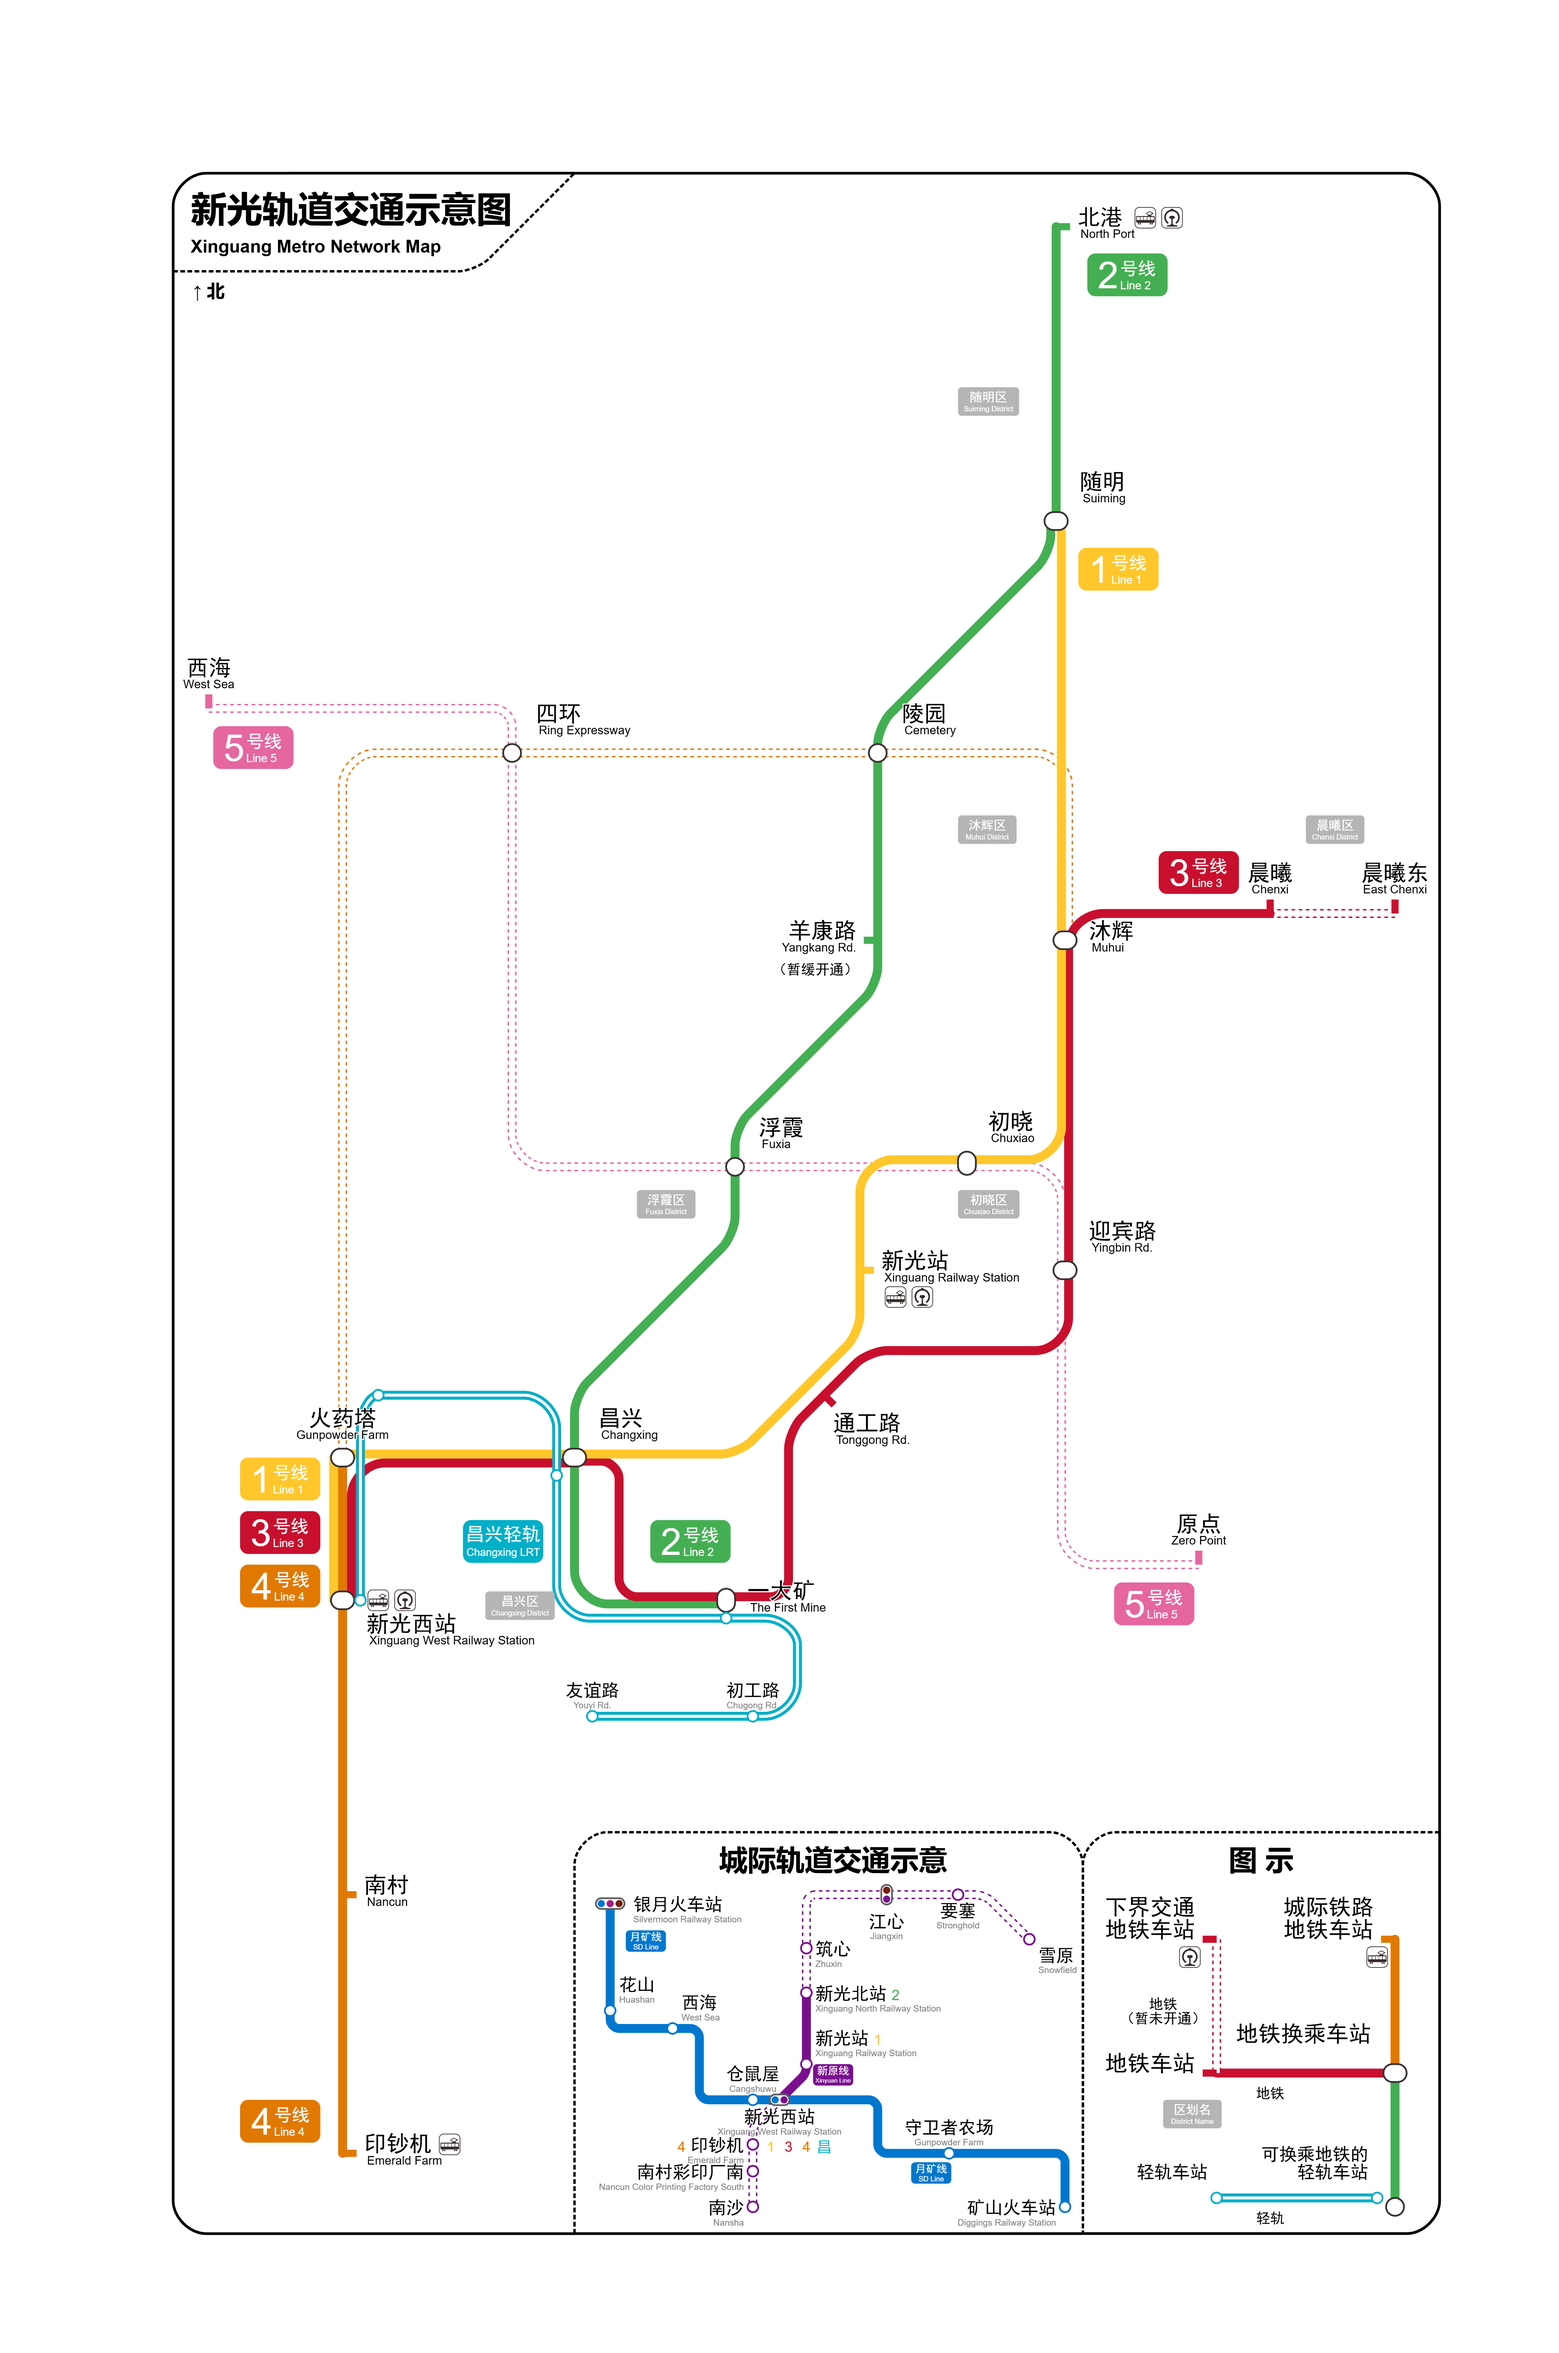
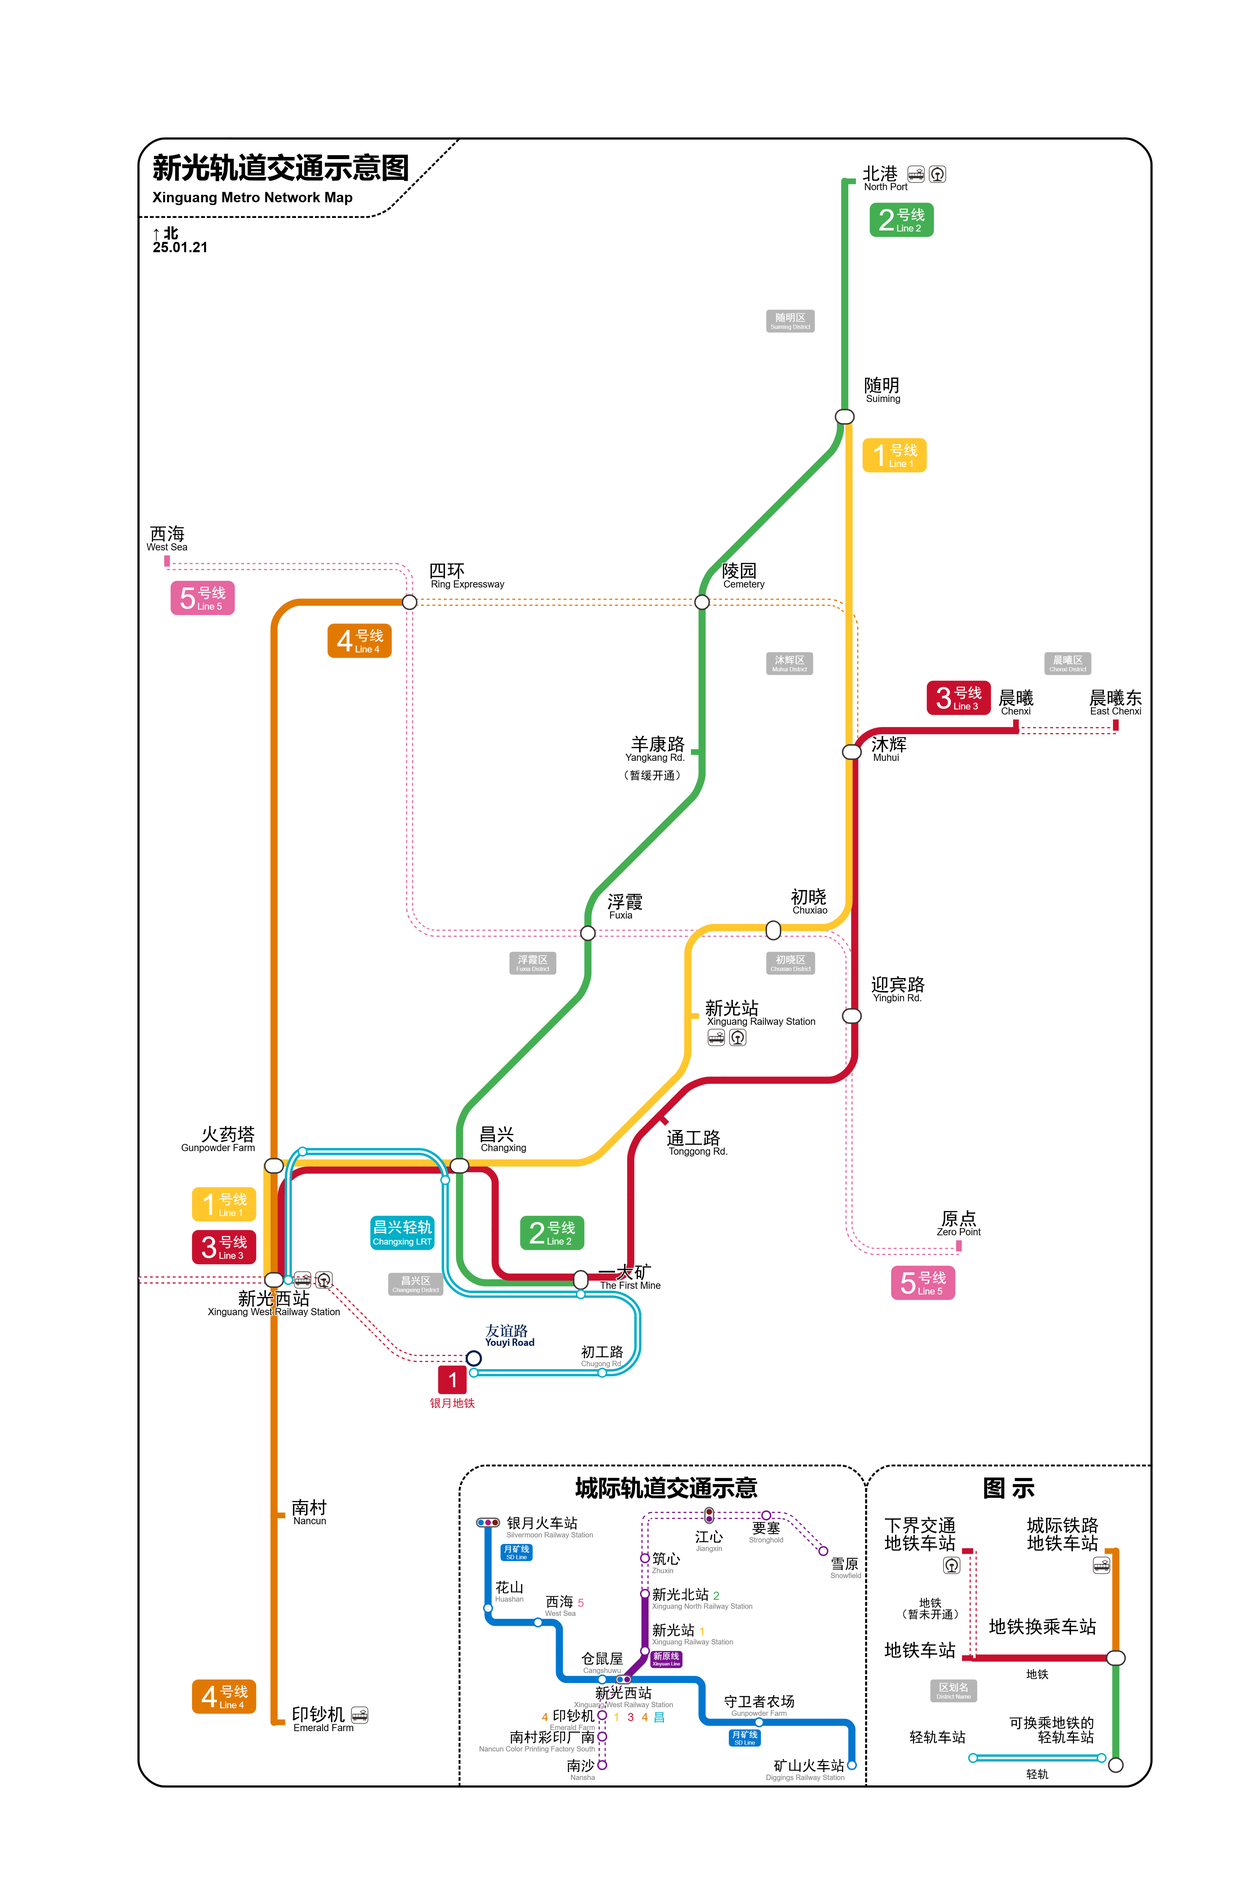
更新服务器铁路信息、未来计划、蛙明灯农场条目

diff --git a/docs/SurvivalIII/industries/froglight_farm.md b/docs/SurvivalIII/industries/froglight_farm.md
@@ -1,34 +1,43 @@
 # 蛙明灯农场
 
-## 概述
+蛙明灯农场是用于产出蛙明灯的机器，是生存服目前唯一的蛙明灯来源。该机器基于一个拥有岩浆怪刷怪笼的堡垒遗迹而建设。
 
-- 蛙明灯农场位于下界交通蛙明灯农场站下方，狭义上仅指用于产生和收集蛙明灯的玻璃墙房间，广义上指玻璃墙房间和该房间外的下界砖块墙房间，和该房间内一铁门通向的观光台。如无说明，在本页面中均指广义含义。
-- 它内部有三只青蛙、一个岩浆怪刷怪笼、十六个细雪、玻璃墙和收集装置。刷怪笼上方开口，通向猪灵堡垒。可通过蛙明灯农场站前往猪灵堡垒。
-- 它是生存服目前的蛙明灯唯一来源，也是下界第三大机器和第二大生电。
-- 它由 @Ar 和 @PumpkinJui 建设和维护。
+## 基础信息
+
+- **地点** 蛙明灯农场（下界交通站点）
+- **维修者** 南瓜汁、Ar
+- **主要产物** 赭黄蛙明灯、青翠蛙明灯、珠光蛙明灯、岩浆膏
+- **到达方式** 下界交通橙线，前往下界要塞站并根据导引到达
+- **代际** 第一代
 
 ## 使用方法
 
-- 从脚手架通道走出后，沿铁轨旁的脚手架向下。
-- 挂机。
-- 检查收获。把它们带到[矿山区域](../diggings.md)进行存放。
+在挂机区直接挂机即可。
 
-## 实现原理
-
-> 摘自 Wiki 相关词条。包括「蛙明灯」等。
-
-## 维护
+### 机器维护
 
 蛙明灯农场最常见的维护项目包括：
 
 - 转移收集装置内临时存放的蛙明灯至蛙明灯仓库。
-- 检查细雪是否莫名消失，如果丢失则补齐。
+- 检查细雪是否莫名消失，如果丢失则补齐。这是当前的一个未知问题——细雪会消失所导致的。*未知出现原因，未知复现步骤，未知修复方式，目前毫无办法。*
 
 其他不太常见的维护项目包括：
 
 - 修复任何被破坏的建筑结构和红石结构。
 
-## 已知问题和 TODO
+## 效率检测
 
-- [ ]  未知问题：细雪会消失。*未知出现原因，未知复现步骤，未知修复方式，目前毫无办法。*
-- [x]  下界交通级防刷怪设计
+于 2025 年 1 月 21 日进行了一次时长为 **8 小时 25 分钟（8.41 小时）** 的效率测量。以下为总产出和该机器的效率统计。
+
+| 产物 | 总产出（个） | 效率（个/h） |
+| --- | --- | --- |
+| 赭黄蛙明灯 | 2585 | 307.4 |
+| 青翠蛙明灯 | 2632 | 313.0 |
+| 珠光蛙明灯 | 2656 | 315.8 |
+| 岩浆膏 | 1521 | 186.9 |
+
+平均下来，每种蛙明灯的平均效率为 312.05 个/h。
+
+## 你知道吗
+
+> 如果你有一些关于此机器的不为人知的趣事想要分享，欢迎分享在这里！

diff --git a/docs/SurvivalIII/railway_transit/history.md b/docs/SurvivalIII/railway_transit/history.md
@@ -59,12 +59,13 @@
 | 24.10.02 | 城际铁路 | 更名 北矿线 → 月矿线、北岩线 → 月岩线 | — | — |
 | 24.10.18 | 月原线 | 银月 - 沙河（银月北线路所） 开通运营 | +161 | 13164 |
 | 24.10.18 | 银月 5 号线 | 与月原线直通运营 | +55 | 13219 |
-| 24.10.24 | 新光地铁 | 昌兴站启用新站，老站废弃 | +130 | 13349 |
-| 24.11.09 | 银月 6 号线 | 采石场 - 银月南站 开通运营 | +288 | 13637 |
-| 24.11.11 | 2 号线 | 随明 - 北港 开通运营 | +246 | 13883 |
-| 24.11.13 | 新原线 | 新光 - 新光北 开通运营 | +689 | 14572 |
+| 24.10.24 | 新光地铁 | 昌兴站启用新站，老站废弃 | +149 | 13368 |
+| 24.11.09 | 银月 6 号线 | 采石场 - 银月南站 开通运营 | +288 | 13656 |
+| 24.11.11 | 2 号线 | 随明 - 北港 开通运营 | +246 | 13902 |
+| 24.11.13 | 新原线 | 新光 - 新光北 开通运营 | +689 | 14591 |
 | 24.11.24 | 1 号线 | 为配合 3 号线通工路站施工，1 号线改线并使用新式隧道 | — | — |
-| 24.11.24 | 3 号线 | 沐辉 - 通工路 开通运营 | +366 | 14938 |
-| 24.12.13 | 3 号线 | 通工路 - 昌兴 开通运营 | +281 | 15219 |
+| 24.11.24 | 3 号线 | 沐辉 - 通工路 开通运营 | +366 | 14957 |
+| 24.12.13 | 3 号线 | 通工路 - 昌兴 开通运营 | +281 | 15238 |
 | 24.12.20 | 新光地铁 | 火药塔站封站改造 | — | — |
-| 24.12.26 | 新光地铁 | 火药塔站重新开放 | — | — |
+| 24.12.26 | 新光地铁 | 火药塔站重新开放，1 号线、4 号线改线 | -104 | 15134 |
+| 25.01.21 | 4 号线 | 火药塔 - 四环 开通运营 | +489 | 15623 |

diff --git a/docs/SurvivalIII/railway_transit/xinguang.md b/docs/SurvivalIII/railway_transit/xinguang.md
@@ -13,11 +13,11 @@
 
 新光地铁整体呈现出高度的南北走向趋势，这是因为新光是一座多岛屿的城市，整体成「J」字形分布，因此新光地铁也显现出这一特点。
 
-截至 2024 年 12 月 27 日，新光地铁已经成为一条拥有 5 条线路，18 个站点，覆盖几乎新光全域的庞大地铁系统（不计月矿线和新原线）。并预计在未来带动四环、西海、原点等区域的发展，发展成为 23 个站点的地铁系统。
+截至 2025 年 1 月 21 日，新光地铁已经成为一条拥有 5 条线路，19 个站点，覆盖几乎新光全域的庞大地铁系统（不计月矿线和新原线）。并预计在未来带动四环、西海、原点等区域的发展，发展成为 23 个站点的地铁系统。
 
 ## 新光轨道交通示意图
 
-![新光地铁规划图 24/12/27](../../../assets/SurvivalIII/xinguang_metro.png)
+![新光地铁规划图 25/01/21](../../../assets/SurvivalIII/xinguang_metro.png)
 
 ## 线路简介
 

diff --git a/docs/SurvivalIII/railway_transit/mileage.md b/docs/SurvivalIII/railway_transit/mileage.md
@@ -14,9 +14,9 @@
 | 沐辉 - 初晓 | 158 |
 | 初晓 - 新光站 | 110 |
 | 新光站 - 昌兴 | 260 |
-| 昌兴 - 火药塔 | 175 |
-| 火药塔 - 新光西站 | 158 |
-| **总计** | **1013** |
+| 昌兴 - 火药塔 | 117 |
+| 火药塔 - 新光西站 | 92 |
+| **总计** | **889** |
 
 ### 2 号线
 
@@ -46,10 +46,11 @@
 
 | 站名 | 站间距（m） |
 | :---: | :---: |
-| 火药塔 - 新光西站 | 120 |
+| 四环 - 火药塔 | 489 |
+| 火药塔 - 新光西站 | 140 |
 | 新光西站 - 南村 | 391 |
 | 南村 - 印钞厂 | 339 |
-| **总计** | **850** |
+| **总计** | **1359** |
 
 ### 昌兴轻轨
 
@@ -177,10 +178,10 @@
 
 | 线路 | 里程（m） |
 | :---: | :---: |
-| 新光地铁 | 5026 |
+| 新光地铁 | 5430 |
 | 银月地铁 | 2876 |
 | 城际铁路 | 7317 |
-| **总计** | **15219** |
+| **总计** | **15623** |
 
 ---
 

diff --git a/docs/SurvivalIII/future_plan/other_area.md b/docs/SurvivalIII/future_plan/other_area.md
@@ -2,13 +2,14 @@
 
 ## 概述
 
+### 筑心
+
+- [ ] 1 **基本目标** 建立一片成就专区，完成成就，建设更加现代化的城市。
+- [ ] 2 工业机器展览馆 *用于摆放一些小型的已被淘汰的工业设施*
+
 ### 岩沙
 
 - [ ] 1 女巫塔木棍存储加倍，红石粉使用自动合成以应对大量掉落
-
-### 下界要塞
-
-- [x] 1 恢复全怪塔门口的抢夺 III 的剑
 
 ### 末地
 
